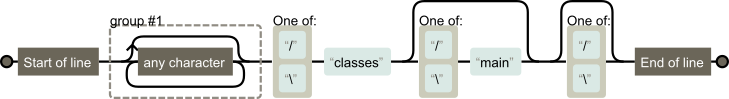
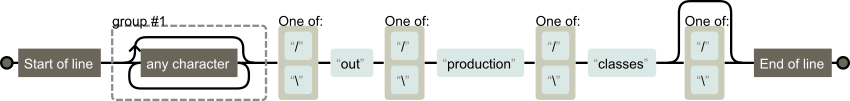
Enable CheckstyleClassLoader to understand new IntelliJ 'out' dirs

diff --git a/src/main/java/org/infernus/idea/checkstyle/CheckstyleClassLoader.java b/src/main/java/org/infernus/idea/checkstyle/CheckstyleClassLoader.java
@@ -36,9 +36,18 @@ public class CheckstyleClassLoader {
     private static final String CSACTIONS_CLASS = "org.infernus.idea.checkstyle.service.CheckstyleActionsImpl";
 
     /**
+     * First pattern we can use to guess the build dir, valid for IntelliJ 2017.2 and later. {@code /build} must be
+     * appended to the result afterwards.
      * <img src="doc-files/CheckstyleClassLoader-1.png"/>
      */
-    private static final Pattern CLASSES_URL = Pattern.compile("^(.*?)[/\\\\]classes(?:[/\\\\]main)?[/\\\\]?$");
+    private static final Pattern CLASSES_URL1 = Pattern.compile("^(.*?)"
+            + "[/\\\\]out[/\\\\]production[/\\\\]classes[/\\\\]?$");
+
+    /**
+     * Second pattern we can use to guess the build dir, valid for IntelliJ 2017.1 or earlier:
+     * <img src="doc-files/CheckstyleClassLoader-2.png"/>
+     */
+    private static final Pattern CLASSES_URL2 = Pattern.compile("^(.*?)[/\\\\]classes(?:[/\\\\]main)?[/\\\\]?$");
 
     private final ClassLoader classLoader;
 
@@ -111,6 +120,7 @@ public class CheckstyleClassLoader {
         } else if (pClassLoader instanceof URLClassLoader) {   // happens in test cases
             result = Arrays.asList(((URLClassLoader) pClassLoader).getURLs());
         } else {
+            //noinspection ConstantConditions
             throw new CheckStylePluginException("incompatible class loader: "
                     + (pClassLoader != null ? pClassLoader.getClass().getName() : "null"));
         }
@@ -142,13 +152,12 @@ public class CheckstyleClassLoader {
 
         // If we could not get the base path from the path manager, deduce it from the current class path:
         if (result == null) {
-            for (final URL url : getUrls(getClass().getClassLoader())) {
-                String path = url.getPath();
-                Matcher matcher = CLASSES_URL.matcher(path);
-                if (matcher.find()) {
-                    result = matcher.group(1);
-                    break;
-                }
+            final List<URL> urls = getUrls(getClass().getClassLoader());
+            result = guessFromClassPath(urls, CLASSES_URL1);
+            if (result != null) {
+                result += "/build";
+            } else {
+                result = guessFromClassPath(urls, CLASSES_URL2);
             }
             if (result != null) {
                 result = urlDecode(result);
@@ -157,6 +166,19 @@ public class CheckstyleClassLoader {
 
         if (result == null) {
             throw new CheckStylePluginException("Could not determine plugin directory");
+        }
+        return result;
+    }
+
+    @Nullable
+    private String guessFromClassPath(@NotNull final List<URL> pUrls, @NotNull final Pattern pPattern) {
+        String result = null;
+        for (final URL url : pUrls) {
+            Matcher matcher = pPattern.matcher(url.getPath());
+            if (matcher.find()) {
+                result = matcher.group(1);
+                break;
+            }
         }
         return result;
     }
